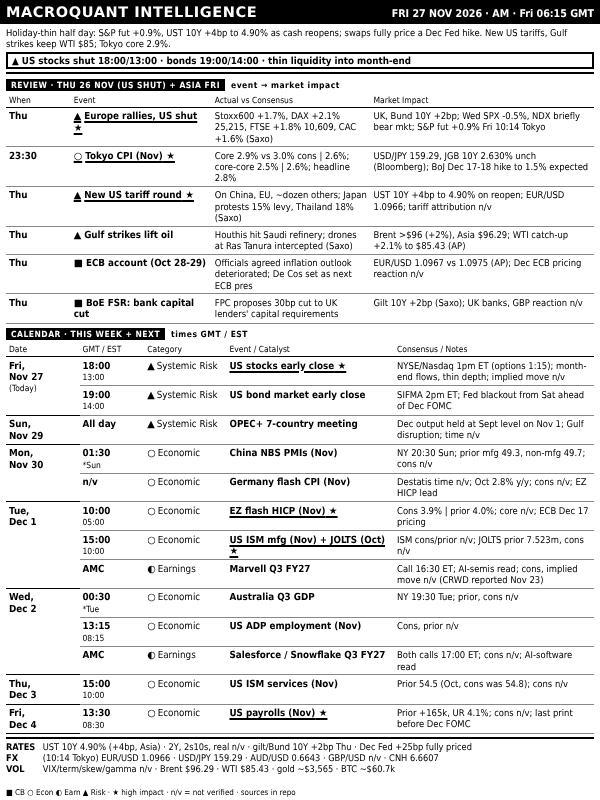
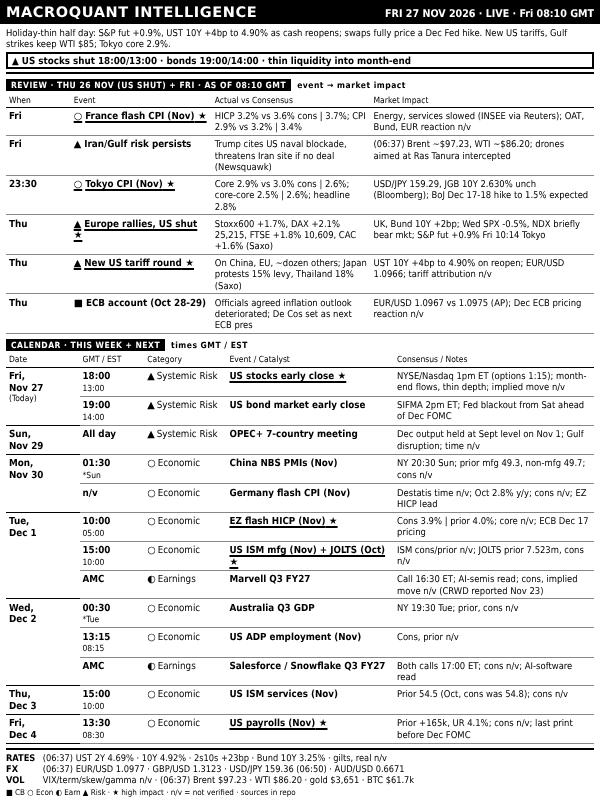
dashboard: FRI 27 NOV 2026 LIVE 08:10
Claude-Session: https://claude.ai/code/session_016SJqa6CmYL6TS7YWtRAq2D

diff --git a/out/dashboard.html b/out/dashboard.html
@@ -38,12 +38,12 @@ table.bd{border-collapse:collapse;width:100%;table-layout:fixed;margin-top:1px}
 </style></head><body>
 <div id="root">
  <div class="hdr"><span class="t">MACROQUANT INTELLIGENCE</span>
-  <span class="r">FRI 27 NOV 2026 · AM · Fri 06:15 GMT</span></div>
+  <span class="r">FRI 27 NOV 2026 · LIVE · Fri 08:10 GMT</span></div>
  <div class="ban"><div class="rg">Holiday-thin half day: S&amp;P fut +0.9%, UST 10Y +4bp to 4.90% as cash reopens; swaps fully price a Dec Fed hike. New US tariffs, Gulf strikes keep WTI $85; Tokyo core 2.9%.</div><div class="al">▲ US stocks shut 18:00/13:00 · bonds 19:00/14:00 · thin liquidity into month-end</div></div>
- <div class="sl"><span>REVIEW · THU 26 NOV (US SHUT) + ASIA FRI</span>event → market impact</div><table class="bd rv"><colgroup><col style="width:11%"><col style="width:24%"><col style="width:27%"><col></colgroup><tr><th>When</th><th>Event</th><th>Actual vs Consensus</th><th>Market Impact</th></tr><tr class="h"><td class="tm"><b>Thu</b></td><td class="ev"><i>▲</i>Europe rallies, US shut</td><td class="ac">Stoxx600 +1.7%, DAX +2.1% 25,215, FTSE +1.8% 10,609, CAC +1.6% (Saxo)</td><td class="nt">UK, Bund 10Y +2bp; Wed SPX -0.5%, NDX briefly bear mkt; S&amp;P fut +0.9% Fri 10:14 Tokyo</td></tr><tr class="h"><td class="tm"><b>23:30</b></td><td class="ev"><i>○</i>Tokyo CPI (Nov)</td><td class="ac">Core 2.9% vs 3.0% cons | 2.6%; core-core 2.5% | 2.6%; headline 2.8%</td><td class="nt">USD/JPY 159.29, JGB 10Y 2.630% unch (Bloomberg); BoJ Dec 17-18 hike to 1.5% expected</td></tr><tr class="h"><td class="tm"><b>Thu</b></td><td class="ev"><i>▲</i>New US tariff round</td><td class="ac">On China, EU, ~dozen others; Japan protests 15% levy, Thailand 18% (Saxo)</td><td class="nt">UST 10Y +4bp to 4.90% on reopen; EUR/USD 1.0966; tariff attribution n/v</td></tr><tr><td class="tm"><b>Thu</b></td><td class="ev"><i>▲</i>Gulf strikes lift oil</td><td class="ac">Houthis hit Saudi refinery; drones at Ras Tanura intercepted (Saxo)</td><td class="nt">Brent &gt;$96 (+2%), Asia $96.29; WTI catch-up +2.1% to $85.43 (AP)</td></tr><tr><td class="tm"><b>Thu</b></td><td class="ev"><i>■</i>ECB account (Oct 28-29)</td><td class="ac">Officials agreed inflation outlook deteriorated; De Cos set as next ECB pres</td><td class="nt">EUR/USD 1.0967 vs 1.0975 (AP); Dec ECB pricing reaction n/v</td></tr><tr><td class="tm"><b>Thu</b></td><td class="ev"><i>■</i>BoE FSR: bank capital cut</td><td class="ac">FPC proposes 30bp cut to UK lenders' capital requirements</td><td class="nt">Gilt 10Y +2bp (Saxo); UK banks, GBP reaction n/v</td></tr></table>
+ <div class="sl"><span>REVIEW · THU 26 NOV (US SHUT) + FRI · AS OF 08:10 GMT</span>event → market impact</div><table class="bd rv"><colgroup><col style="width:11%"><col style="width:24%"><col style="width:27%"><col></colgroup><tr><th>When</th><th>Event</th><th>Actual vs Consensus</th><th>Market Impact</th></tr><tr class="h"><td class="tm"><b>Fri</b></td><td class="ev"><i>○</i>France flash CPI (Nov)</td><td class="ac">HICP 3.2% vs 3.6% cons | 3.7%; CPI 2.9% vs 3.2% | 3.4%</td><td class="nt">Energy, services slowed (INSEE via Reuters); OAT, Bund, EUR reaction n/v</td></tr><tr><td class="tm"><b>Fri</b></td><td class="ev"><i>▲</i>Iran/Gulf risk persists</td><td class="ac">Trump cites US naval blockade, threatens Iran site if no deal (Newsquawk)</td><td class="nt">(06:37) Brent ~$97.23, WTI ~$86.20; drones aimed at Ras Tanura intercepted</td></tr><tr class="h"><td class="tm"><b>23:30</b></td><td class="ev"><i>○</i>Tokyo CPI (Nov)</td><td class="ac">Core 2.9% vs 3.0% cons | 2.6%; core-core 2.5% | 2.6%; headline 2.8%</td><td class="nt">USD/JPY 159.29, JGB 10Y 2.630% unch (Bloomberg); BoJ Dec 17-18 hike to 1.5% expected</td></tr><tr class="h"><td class="tm"><b>Thu</b></td><td class="ev"><i>▲</i>Europe rallies, US shut</td><td class="ac">Stoxx600 +1.7%, DAX +2.1% 25,215, FTSE +1.8% 10,609, CAC +1.6% (Saxo)</td><td class="nt">UK, Bund 10Y +2bp; Wed SPX -0.5%, NDX briefly bear mkt; S&amp;P fut +0.9% Fri 10:14 Tokyo</td></tr><tr class="h"><td class="tm"><b>Thu</b></td><td class="ev"><i>▲</i>New US tariff round</td><td class="ac">On China, EU, ~dozen others; Japan protests 15% levy, Thailand 18% (Saxo)</td><td class="nt">UST 10Y +4bp to 4.90% on reopen; EUR/USD 1.0966; tariff attribution n/v</td></tr><tr><td class="tm"><b>Thu</b></td><td class="ev"><i>■</i>ECB account (Oct 28-29)</td><td class="ac">Officials agreed inflation outlook deteriorated; De Cos set as next ECB pres</td><td class="nt">EUR/USD 1.0967 vs 1.0975 (AP); Dec ECB pricing reaction n/v</td></tr></table>
  <div class="sl"><span>CALENDAR · THIS WEEK + NEXT</span>times GMT / EST</div>
  <table class="bd"><colgroup><col style="width:12.5%"><col style="width:11%"><col style="width:14%"><col style="width:28.5%"><col></colgroup><tr><th>Date</th><th>GMT / EST</th><th>Category</th><th>Event / Catalyst</th><th>Consensus / Notes</th></tr><tr class="g0 h"><td class="dt" rowspan="2">Fri,<br>Nov&nbsp;27<span class="tg">(Today)</span></td><td class="tm"><b>18:00</b><span>13:00</span></td><td class="ct"><i>▲</i>Systemic Risk</td><td class="ev">US stocks early close</td><td class="nt">NYSE/Nasdaq 1pm ET (options 1:15); month-end flows, thin depth; implied move n/v</td></tr><tr class=""><td class="tm"><b>19:00</b><span>14:00</span></td><td class="ct"><i>▲</i>Systemic Risk</td><td class="ev">US bond market early close</td><td class="nt">SIFMA 2pm ET; Fed blackout from Sat ahead of Dec FOMC</td></tr><tr class="g0"><td class="dt" rowspan="1">Sun,<br>Nov&nbsp;29</td><td class="tm"><b>All day</b></td><td class="ct"><i>▲</i>Systemic Risk</td><td class="ev">OPEC+ 7-country meeting</td><td class="nt">Dec output held at Sept level on Nov 1; Gulf disruption; time n/v</td></tr><tr class="g0"><td class="dt" rowspan="2">Mon,<br>Nov&nbsp;30</td><td class="tm"><b>01:30</b><span>*Sun</span></td><td class="ct"><i>○</i>Economic</td><td class="ev">China NBS PMIs (Nov)</td><td class="nt">NY 20:30 Sun; prior mfg 49.3, non-mfg 49.7; cons n/v</td></tr><tr class=""><td class="tm"><b>n/v</b></td><td class="ct"><i>○</i>Economic</td><td class="ev">Germany flash CPI (Nov)</td><td class="nt">Destatis time n/v; Oct 2.8% y/y; cons n/v; EZ HICP lead</td></tr><tr class="g0 h"><td class="dt" rowspan="3">Tue,<br>Dec&nbsp;1</td><td class="tm"><b>10:00</b><span>05:00</span></td><td class="ct"><i>○</i>Economic</td><td class="ev">EZ flash HICP (Nov)</td><td class="nt">Cons 3.9% | prior 4.0%; core n/v; ECB Dec 17 pricing</td></tr><tr class="h"><td class="tm"><b>15:00</b><span>10:00</span></td><td class="ct"><i>○</i>Economic</td><td class="ev">US ISM mfg (Nov) + JOLTS (Oct)</td><td class="nt">ISM cons/prior n/v; JOLTS prior 7.523m, cons n/v</td></tr><tr class=""><td class="tm"><b>AMC</b></td><td class="ct"><i>◐</i>Earnings</td><td class="ev">Marvell Q3 FY27</td><td class="nt">Call 16:30 ET; AI-semis read; cons, implied move n/v (CRWD reported Nov 23)</td></tr><tr class="g0"><td class="dt" rowspan="3">Wed,<br>Dec&nbsp;2</td><td class="tm"><b>00:30</b><span>*Tue</span></td><td class="ct"><i>○</i>Economic</td><td class="ev">Australia Q3 GDP</td><td class="nt">NY 19:30 Tue; prior, cons n/v</td></tr><tr class=""><td class="tm"><b>13:15</b><span>08:15</span></td><td class="ct"><i>○</i>Economic</td><td class="ev">US ADP employment (Nov)</td><td class="nt">Cons, prior n/v</td></tr><tr class=""><td class="tm"><b>AMC</b></td><td class="ct"><i>◐</i>Earnings</td><td class="ev">Salesforce / Snowflake Q3 FY27</td><td class="nt">Both calls 17:00 ET; cons n/v; AI-software read</td></tr><tr class="g0"><td class="dt" rowspan="1">Thu,<br>Dec&nbsp;3</td><td class="tm"><b>15:00</b><span>10:00</span></td><td class="ct"><i>○</i>Economic</td><td class="ev">US ISM services (Nov)</td><td class="nt">Prior 54.5 (Oct, cons was 54.8); cons n/v</td></tr><tr class="g0 h"><td class="dt" rowspan="1">Fri,<br>Dec&nbsp;4</td><td class="tm"><b>13:30</b><span>08:30</span></td><td class="ct"><i>○</i>Economic</td><td class="ev">US payrolls (Nov)</td><td class="nt">Prior +165k, UR 4.1%; cons n/v; last print before Dec FOMC</td></tr></table>
- <div class="lv"><div><b>RATES</b>UST 10Y 4.90% (+4bp, Asia) · 2Y, 2s10s, real n/v · gilt/Bund 10Y +2bp Thu · Dec Fed +25bp fully priced</div><div><b>FX</b>(10:14 Tokyo) EUR/USD 1.0966 · USD/JPY 159.29 · AUD/USD 0.6643 · GBP/USD n/v · CNH 6.6607</div><div><b>VOL</b>VIX/term/skew/gamma n/v · Brent $96.29 · WTI $85.43 · gold ~$3,565 · BTC ~$60.7k</div></div>
+ <div class="lv"><div><b>RATES</b>(06:37) UST 2Y 4.69% · 10Y 4.92% · 2s10s +23bp · Bund 10Y 3.25% · gilts, real n/v</div><div><b>FX</b>(06:37) EUR/USD 1.0977 · GBP/USD 1.3123 · USD/JPY 159.36 (06:50) · AUD/USD 0.6671</div><div><b>VOL</b>VIX/term/skew/gamma n/v · (06:37) Brent $97.23 · WTI $86.20 · gold $3,651 · BTC $61.7k</div></div>
 </div>
 <div class="foot">■ CB ○ Econ ◐ Earn ▲ Risk · ★ high impact · n/v = not verified · sources in repo</div>
 </body></html>
